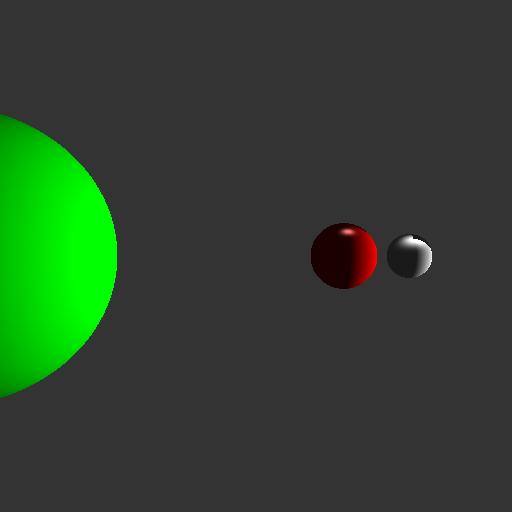
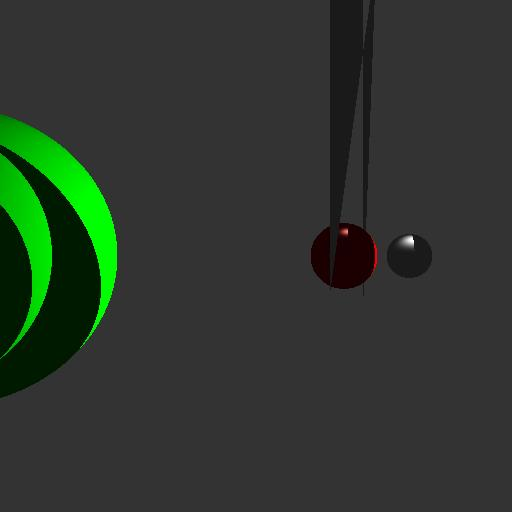
triangles working a little better. Still not fully working.

Changed region(s): [[0.0, 0.2812, 0.2188, 0.7812], [0.625, 0.0, 0.75, 0.5625], [0.8125, 0.4688, 0.8438, 0.5625]]

diff --git a/src/main/java/edu/byu/cs455/Main.java b/src/main/java/edu/byu/cs455/Main.java
@@ -32,33 +32,33 @@ public class Main
         spheres.add(new Sphere(new Vector(0.35, 0.0, -0.1), 0.05, new Diffuse(new Color(1.0f, 1.0f, 1.0f), new Color(1.0f, 1.0f, 1.0f), 4)));
         spheres.add(new Sphere(new Vector(0.2, 0.0, -0.1), 0.075, new Diffuse(new Color(1.0f, 0.0f, 0.0f), new Color(1.0f, 0.5f, 0.5f), 32)));
         spheres.add(new Sphere(new Vector(-0.6, 0.0, 0.0), 0.3, new Diffuse(new Color(0.0f, 1.0f, 0.0f), new Color(0.5f, 1.0f, 0.5f), 32)));
-        triangles.add(new Triangle(new Vector(0.3, -0.3, -0.4), new Vector(0.0f, 0.3f, -0.1f), new Vector(-0.3, -0.3, 0.2), new Diffuse(new Color(1.0f, 1.0f, 1.0f), new Color(0.0f, 0.0f, 1.0f), 32)));
-        triangles.add(new Triangle(new Vector(-0.2, 0.1, 0.1), new Vector(-0.2f, -0.5f, 0.2f), new Vector(-0.2, 0.1, -0.3), new Diffuse(new Color(1.0f, 1.0f, 1.0f), new Color(1.0f, 1.0f, 0.0f), 4)));
+        triangles.add(new Triangle(new Vector(0.3, -0.3, -0.4), new Vector(0.0, 0.3, -0.1), new Vector(-0.3, -0.3, 0.2), new Diffuse(new Color(1.0f, 1.0f, 1.0f), new Color(0.0f, 0.0f, 1.0f), 32)));
+        triangles.add(new Triangle(new Vector(-0.2, 0.1, 0.1), new Vector(-0.2, -0.5, 0.2), new Vector(-0.2, 0.1, -0.3), new Diffuse(new Color(1.0f, 1.0f, 1.0f), new Color(1.0f, 1.0f, 0.0f), 4)));
         cameraSettings = new CameraSettings(new Vector(0.0, 0.0, 0.0), new Vector(0.0, 0.0, 1.0), new Vector(0.0, 1.0, 0.0), 28);
         light = new Light(new Vector(1.0, 0.0, 0.0), new Color(1.0f, 1.0f, 1.0f), new Color(0.1f, 0.1f, 0.1f), new Color(0.2f, 0.2f, 0.2f));
         scene = new Scene(spheres, triangles, cameraSettings, light);
         scene.rayTraceToFile(args[0]);
 
-        spheres = new ArrayList<>();
-        triangles = new ArrayList<>();
-        spheres.add(new Sphere(new Vector(0.0, 0.3, 0.0), 0.2, new Reflective(new Color(1.0f, 1.0f, 1.0f))));
-        triangles.add(new Triangle(new Vector(0.3, -0.3, -0.4), new Vector(0.0, 0.3, -0.1), new Vector(-0.3, -0.3, 0.2), new Diffuse(new Color(0.0f, 0.0f, 1.0f), new Color(1.0f, 1.0f, 1.0f), 32)));
-        triangles.add(new Triangle(new Vector(-0.2, 0.1, 0.1), new Vector(-0.2, -0.5, 0.2), new Vector(-0.2, 0.1, -0.3), new Diffuse(new Color(1.0f, 1.0f, 0.0f), new Color(1.0f, 1.0f, 1.0f), 4)));
-        cameraSettings = new CameraSettings(new Vector(0.0, 0.0, 0.0), new Vector(0.0, 0.0, 1.2), new Vector(0.0, 1.0, 0.0), 55);
-        light = new Light(new Vector(0.0, 1.0, 0.0), new Color(1.0f, 1.0f, 1.0f), new Color(0.0f, 0.0f, 0.0f), new Color(0.2f, 0.2f, 0.2f));
-        scene = new Scene(spheres, triangles, cameraSettings, light);
-        scene.rayTraceToFile(args[1]);
-
-        spheres = new ArrayList<>();
-        triangles = new ArrayList<>();
-        spheres.add(new Sphere(new Vector(0.0, 0.0, 0.0), 0.2322, new Refractive(new Color(1.0f, 1.0f, 1.0f), 1.333)));
-        spheres.add(new Sphere(new Vector(0.25, 0.25, -0.6), 0.1161, new Diffuse(new Color(1.0f, 1.0f, 0.0f), new Color(0.5f, 1.0f, 0.5f), 4)));
-        spheres.add(new Sphere(new Vector(-0.25, 0.25, -0.6), 0.1161, new Diffuse(new Color(1.0f, 0.0f, 0.0f), new Color(0.0f, 0.0f, 0.0f), 4)));
-        spheres.add(new Sphere(new Vector(-0.25, -0.25, -0.6), 0.1161, new Diffuse(new Color(0.0f, 0.0f, 1.0f), new Color(0.0f, 0.0f, 0.0f), 4)));
-        spheres.add(new Sphere(new Vector(0.25, -0.25, -0.6), 0.1161, new Diffuse(new Color(0.0f, 1.0f, 0.0f), new Color(0.0f, 0.0f, 0.0f), 4)));
-        cameraSettings = new CameraSettings(new Vector(0.0, 0.0, 0.0), new Vector(0.0, 0.0, 1.2), new Vector(0.0, 1.0, 0.0), 35);
-        light = new Light(new Vector(0.0, 0.0, 1.0), new Color(1.0f, 1.0f, 1.0f), new Color(0.0f, 0.0f, 0.0f), new Color(0.2f, 0.2f, 0.2f));
-        scene = new Scene(spheres, triangles, cameraSettings, light);
-        scene.rayTraceToFile(args[2]);
+//        spheres = new ArrayList<>();
+//        triangles = new ArrayList<>();
+//        spheres.add(new Sphere(new Vector(0.0, 0.3, 0.0), 0.2, new Reflective(new Color(1.0f, 1.0f, 1.0f))));
+//        triangles.add(new Triangle(new Vector(0.3, -0.3, -0.4), new Vector(0.0, 0.3, -0.1), new Vector(-0.3, -0.3, 0.2), new Diffuse(new Color(0.0f, 0.0f, 1.0f), new Color(1.0f, 1.0f, 1.0f), 32)));
+//        triangles.add(new Triangle(new Vector(-0.2, 0.1, 0.1), new Vector(-0.2, -0.5, 0.2), new Vector(-0.2, 0.1, -0.3), new Diffuse(new Color(1.0f, 1.0f, 0.0f), new Color(1.0f, 1.0f, 1.0f), 4)));
+//        cameraSettings = new CameraSettings(new Vector(0.0, 0.0, 0.0), new Vector(0.0, 0.0, 1.2), new Vector(0.0, 1.0, 0.0), 55);
+//        light = new Light(new Vector(0.0, 1.0, 0.0), new Color(1.0f, 1.0f, 1.0f), new Color(0.0f, 0.0f, 0.0f), new Color(0.2f, 0.2f, 0.2f));
+//        scene = new Scene(spheres, triangles, cameraSettings, light);
+//        scene.rayTraceToFile(args[1]);
+//
+//        spheres = new ArrayList<>();
+//        triangles = new ArrayList<>();
+//        spheres.add(new Sphere(new Vector(0.0, 0.0, 0.0), 0.2322, new Refractive(new Color(1.0f, 1.0f, 1.0f), 1.333)));
+//        spheres.add(new Sphere(new Vector(0.25, 0.25, -0.6), 0.1161, new Diffuse(new Color(1.0f, 1.0f, 0.0f), new Color(0.5f, 1.0f, 0.5f), 4)));
+//        spheres.add(new Sphere(new Vector(-0.25, 0.25, -0.6), 0.1161, new Diffuse(new Color(1.0f, 0.0f, 0.0f), new Color(0.0f, 0.0f, 0.0f), 4)));
+//        spheres.add(new Sphere(new Vector(-0.25, -0.25, -0.6), 0.1161, new Diffuse(new Color(0.0f, 0.0f, 1.0f), new Color(0.0f, 0.0f, 0.0f), 4)));
+//        spheres.add(new Sphere(new Vector(0.25, -0.25, -0.6), 0.1161, new Diffuse(new Color(0.0f, 1.0f, 0.0f), new Color(0.0f, 0.0f, 0.0f), 4)));
+//        cameraSettings = new CameraSettings(new Vector(0.0, 0.0, 0.0), new Vector(0.0, 0.0, 1.2), new Vector(0.0, 1.0, 0.0), 35);
+//        light = new Light(new Vector(0.0, 0.0, 1.0), new Color(1.0f, 1.0f, 1.0f), new Color(0.0f, 0.0f, 0.0f), new Color(0.2f, 0.2f, 0.2f));
+//        scene = new Scene(spheres, triangles, cameraSettings, light);
+//        scene.rayTraceToFile(args[2]);
     }
 }

diff --git a/src/main/java/edu/byu/cs455/scene/object/Triangle.java b/src/main/java/edu/byu/cs455/scene/object/Triangle.java
@@ -1,12 +1,10 @@
 package edu.byu.cs455.scene.object;
 
-import edu.byu.cs455.scene.element.Light;
 import edu.byu.cs455.scene.element.PlanePoint;
 import edu.byu.cs455.scene.element.Ray;
 import edu.byu.cs455.scene.element.Vector;
 import edu.byu.cs455.scene.material.Material;
 
-import java.awt.Color;
 import java.util.ArrayList;
 import java.util.List;
 
@@ -43,7 +41,7 @@ public class Triangle extends SceneObject
     @Override
     public Vector getIntersectionVector(Ray ray)
     {
-        Vector planeIntersectionVector = getPlaneIntersectionVector(ray, getPlaneNormal());
+        Vector planeIntersectionVector = getPlaneIntersectionVector(ray);
         if (planeIntersectionVector != null)
         {
             if (isIntersectionVectorInsideTriangle(planeIntersectionVector))
@@ -59,6 +57,12 @@ public class Triangle extends SceneObject
         {
             return null;
         }
+    }
+
+    private double getPlaneDistance()
+    {
+        return b.dotProduct(getPlaneNormal());
+        //return d;
     }
 
     @Override
@@ -127,19 +131,19 @@ public class Triangle extends SceneObject
         return numCrossings;
     }
 
-    private Vector getPlaneIntersectionVector(Ray ray, Vector planeNormal)
+    private Vector getPlaneIntersectionVector(Ray ray)
     {
         //t = -(p_n \dot r_o + d)/(p_n \dot r_d)
-        double denominator = ray.getDirection().dotProduct(planeNormal);
+        double vd = getPlaneNormal().dotProduct(ray.getDirection());
         //(p_n \dot r_d) == 0, parallel. (p_n \dot r_d) > 0 Plane normal pointing away from ray.
-        if (denominator >= 0)
+        if (vd >= 0)
         {
             return null;
         }
-        double distance = planeNormal.distance(0d, 0d, 0d);
-        double intersectionDistance = -(planeNormal.dotProduct(ray.getOrigin()) + distance) / denominator;
-        //intersectionDistance <= 0 means the "intersection" is behind the ray, so not a real intersection
+        double vo = -(getPlaneNormal().dotProduct(ray.getOrigin()) + getPlaneDistance());
+        double intersectionDistance = vo / vd;
 
+        //intersectionDistance <= 0 means the "intersection" is behind the ray, so not a real intersection
         return (intersectionDistance <= 0) ? null : ray.getLocation(intersectionDistance);
     }
 
@@ -162,7 +166,7 @@ public class Triangle extends SceneObject
     {
         Vector v1 = a.subtract(b);
         Vector v2 = c.subtract(b);
-        return v1.crossProduct(v2);
+        return v1.crossProduct(v2).normalize();
     }
 
     private int determineSignHolder(PlanePoint planePoint)

diff --git a/src/main/java/edu/byu/cs455/scene/Scene.java b/src/main/java/edu/byu/cs455/scene/Scene.java
@@ -108,7 +108,8 @@ public class Scene
     private Color getRayColor(Ray ray)
     {
         double closest = Integer.MAX_VALUE;
-        Color colorSeen = getLight().getBackgroundColor();
+        Vector actualIntersection = null;
+        SceneObject actualSceneObject = null;
         for (SceneObject sceneObject : getSceneObjects())
         {
             Vector intersection = sceneObject.getIntersectionVector(ray);
@@ -117,11 +118,14 @@ public class Scene
                 if (intersection.z() < closest)
                 {
                     closest = intersection.z();
-                    colorSeen = sceneObject.calculateIlluminationModel(intersection, isInShadow(intersection), this);
+                    actualIntersection = intersection;
+                    actualSceneObject = sceneObject;
                 }
             }
         }
-        return colorSeen;
+        if (actualIntersection != null)
+            return actualSceneObject.calculateIlluminationModel(actualIntersection, isInShadow(actualIntersection), this);
+        return getLight().getBackgroundColor();
     }
 
     private boolean isInShadow(Vector pointToCheck)

diff --git a/src/main/java/edu/byu/cs455/scene/material/Diffuse.java b/src/main/java/edu/byu/cs455/scene/material/Diffuse.java
@@ -43,8 +43,10 @@ public class Diffuse extends Material
 
         double visibilityTerm = isInShadow ? 1 : 0;
         Vector ambientTerm = getAmbientTerm(diffuseReflectanceColor, ambientColor);
-        Vector diffuseTerm = getDiffuseTerm(diffuseReflectanceColor, lightSourceColor, getLambertianComponent(normal, directionToLight)).multiply(visibilityTerm);
-        Vector phongTerm = getPhongTerm(lightSourceColor, specularHighlightColor, getPhongComponent(scene.getCameraSettings().getLookFrom(), reflectionVector, getPhongConstant())).multiply(visibilityTerm);
+        Vector diffuseTerm = getDiffuseTerm(diffuseReflectanceColor, lightSourceColor, getLambertianComponent(normal, directionToLight))
+                .multiply(visibilityTerm);
+        Vector phongTerm = getPhongTerm(lightSourceColor, specularHighlightColor, getPhongComponent(scene.getCameraSettings().getLookFrom(), reflectionVector, getPhongConstant()))
+                .multiply(visibilityTerm);
         return addColorTermsTogether(ambientTerm, diffuseTerm, phongTerm);
     }
 

diff --git a/src/main/java/edu/byu/cs455/scene/element/PlanePoint.java b/src/main/java/edu/byu/cs455/scene/element/PlanePoint.java
@@ -38,4 +38,10 @@ public class PlanePoint
     {
         return new PlanePoint(this.getU() - other.getU(), this.getV() - other.getV());
     }
+
+    @Override
+    public String toString()
+    {
+        return String.format("PlanePoint{%f, %f}", planePoint.x, planePoint.y);
+    }
 }

diff --git a/src/main/java/edu/byu/cs455/scene/element/Vector.java b/src/main/java/edu/byu/cs455/scene/element/Vector.java
@@ -126,6 +126,11 @@ public class Vector
         return new Vector(vector.crossProduct(vec.getVector()));
     }
 
+    public double length()
+    {
+        return distance(0, 0, 0);
+    }
+
     @Override
     public boolean equals(Object o)
     {

diff --git a/src/main/java/edu/byu/cs455/scene/element/Ray.java b/src/main/java/edu/byu/cs455/scene/element/Ray.java
@@ -11,7 +11,7 @@ public class Ray
     public Ray(Vector origin, Vector direction)
     {
         this.origin = origin;
-        this.direction = direction;
+        this.direction = direction.normalize();
     }
 
     public Vector getOrigin()
